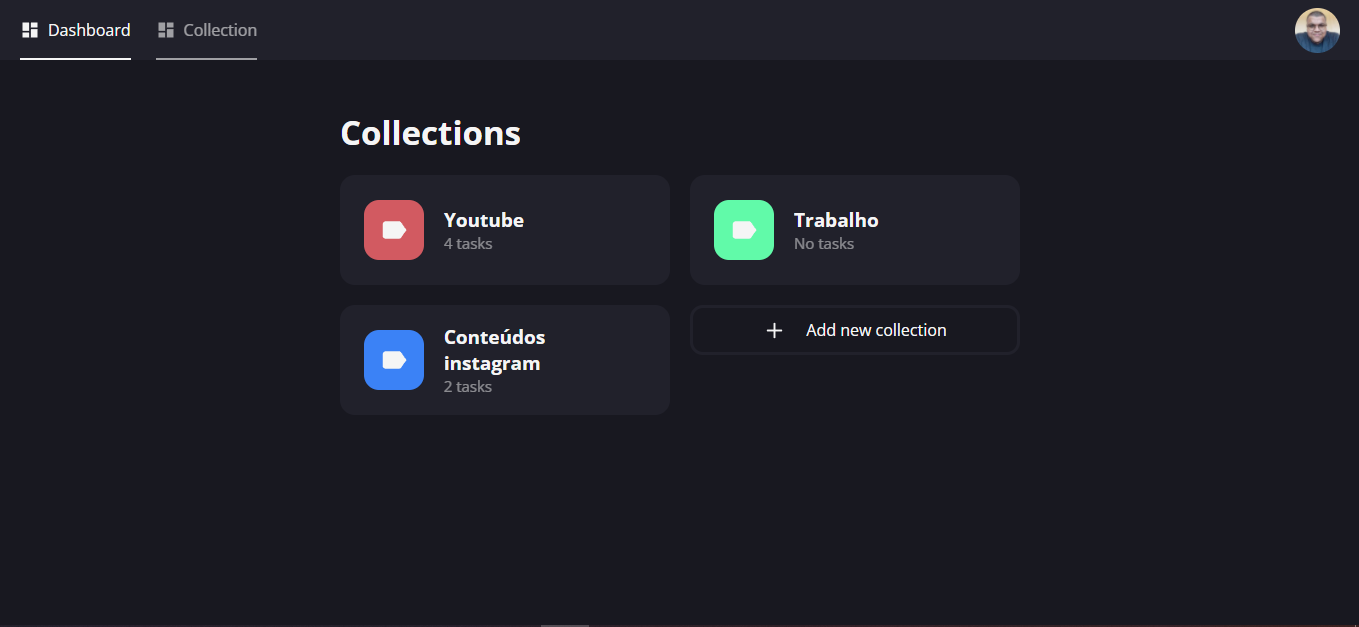
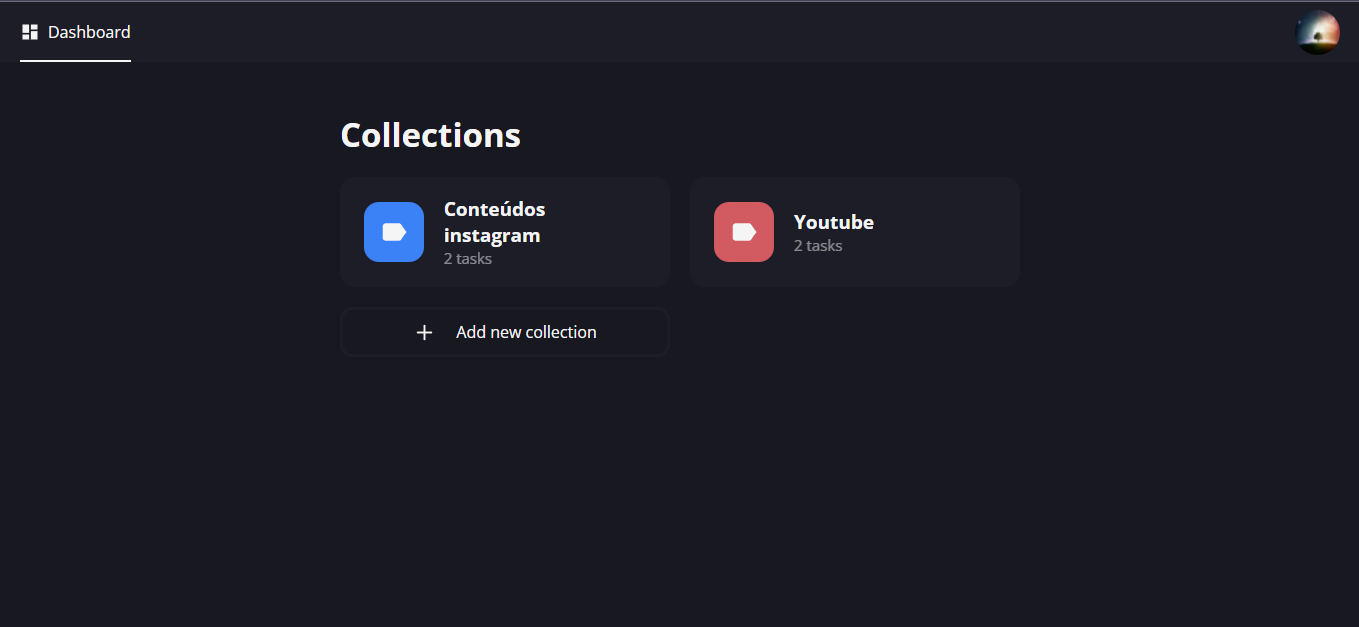
added readme and new photo header

diff --git a/src/components/Header/index.tsx b/src/components/Header/index.tsx
@@ -23,7 +23,7 @@ export function Header() {
         </ul>
       </Nav>
 
-      <Image src='https://github.com/oleandrosiq.png' alt='Image Profile' />
+      <Image src='https://super.abril.com.br/wp-content/uploads/2018/07/5672f6af82bee174ca03d239thinkstockphotos-153831740.jpeg' alt='Image Profile' />
     </Container>
   );
 }

diff --git a/README.md b/README.md
@@ -1,0 +1,56 @@
+<h1 align="center">Tasks Collections</h1>
+
+<p align="center">
+  <a href="#dart-about">About</a> &#xa0; | &#xa0; 
+  <a href="#sparkles-features">Features</a> &#xa0; | &#xa0;
+  <a href="#rocket-technologies">Technologies</a> &#xa0; | &#xa0;
+  <a href="#checkered_flag-starting">Starting</a> &#xa0; | &#xa0;
+  <a href="#memo-license">License</a> &#xa0; | &#xa0;
+  <a href="https://github.com/oleandosiq" target="_blank">Author</a>
+</p>
+
+<br>
+
+## 🎯 About ##
+
+um sitema para Anotar suas tarefas em coleções.
+
+<div align="center" id="top"> 
+  <img src="./.github/banner.png" alt="Collections Base" />
+  <img src="./.github/banner2.png" alt="Collection Youtube" />
+
+  &#xa0;
+  <a href="https://youtube-collections.vercel.app/dashboard">Demo</a>
+</div>
+
+## ⭐ Features ##
+
+✅ Feature Crud de collections;\
+✅ Feature Crud de tasks;
+
+## 🚀 Technologies ##
+
+The following tools were used in this project:
+- [React](https://pt-br.reactjs.org/)
+- [TypeScript](https://www.typescriptlang.org/)
+
+## ✅ Starting ##
+
+```bash
+# Clone this project
+$ git clone https://github.com/oleandrosiq/api-contacts
+# Access
+$ cd api-contacts
+# Install dependencies
+$ yarn
+# Run the project
+$ yarn start
+# The server will initialize in the <http://localhost:3000>
+```
+
+
+Made with 💖 by <a href="https://github.com/oleandrosiq" target="_blank">oleandrosiq</a>
+
+&#xa0;
+
+<a href="#top">Back to top</a>
